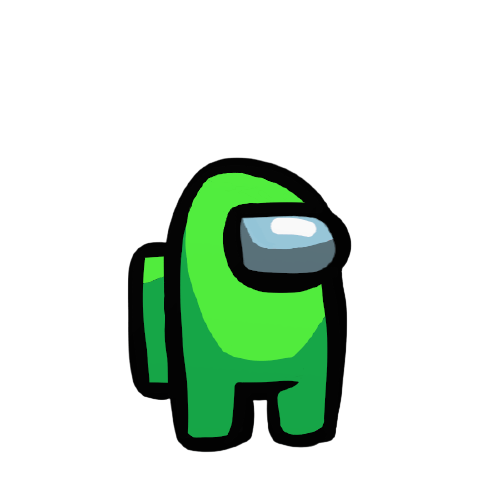
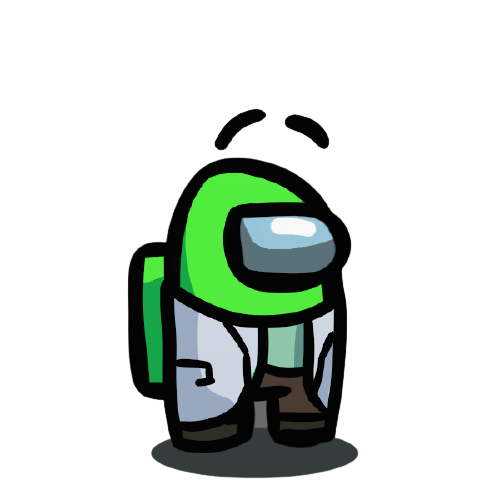
char black

Changed region(s): [[0.3, 0.57, 0.72, 0.96], [0.42, 0.21, 0.54, 0.3], [0.57, 0.21, 0.66, 0.3]]

diff --git a/index.html b/index.html
@@ -31,6 +31,7 @@
             <img class="pink" src="./img/pink.png" width="10%">
             <img class="white" src="./img/white.png" width="10%">
             <img class="purple" src="./img/purple.png" width="10%">
+            <img class="black" src="./img/black.png" width="10%">
         </div>
     </div>
     <div class="space" style="height: 30%;"></div>

diff --git a/css/char.css b/css/char.css
@@ -54,3 +54,10 @@
     top: 43%;
     z-index: 1;
   }
+
+  .black {
+    position: fixed;
+    left: 25%;
+    top: 43%;
+    z-index: 1;
+  }
